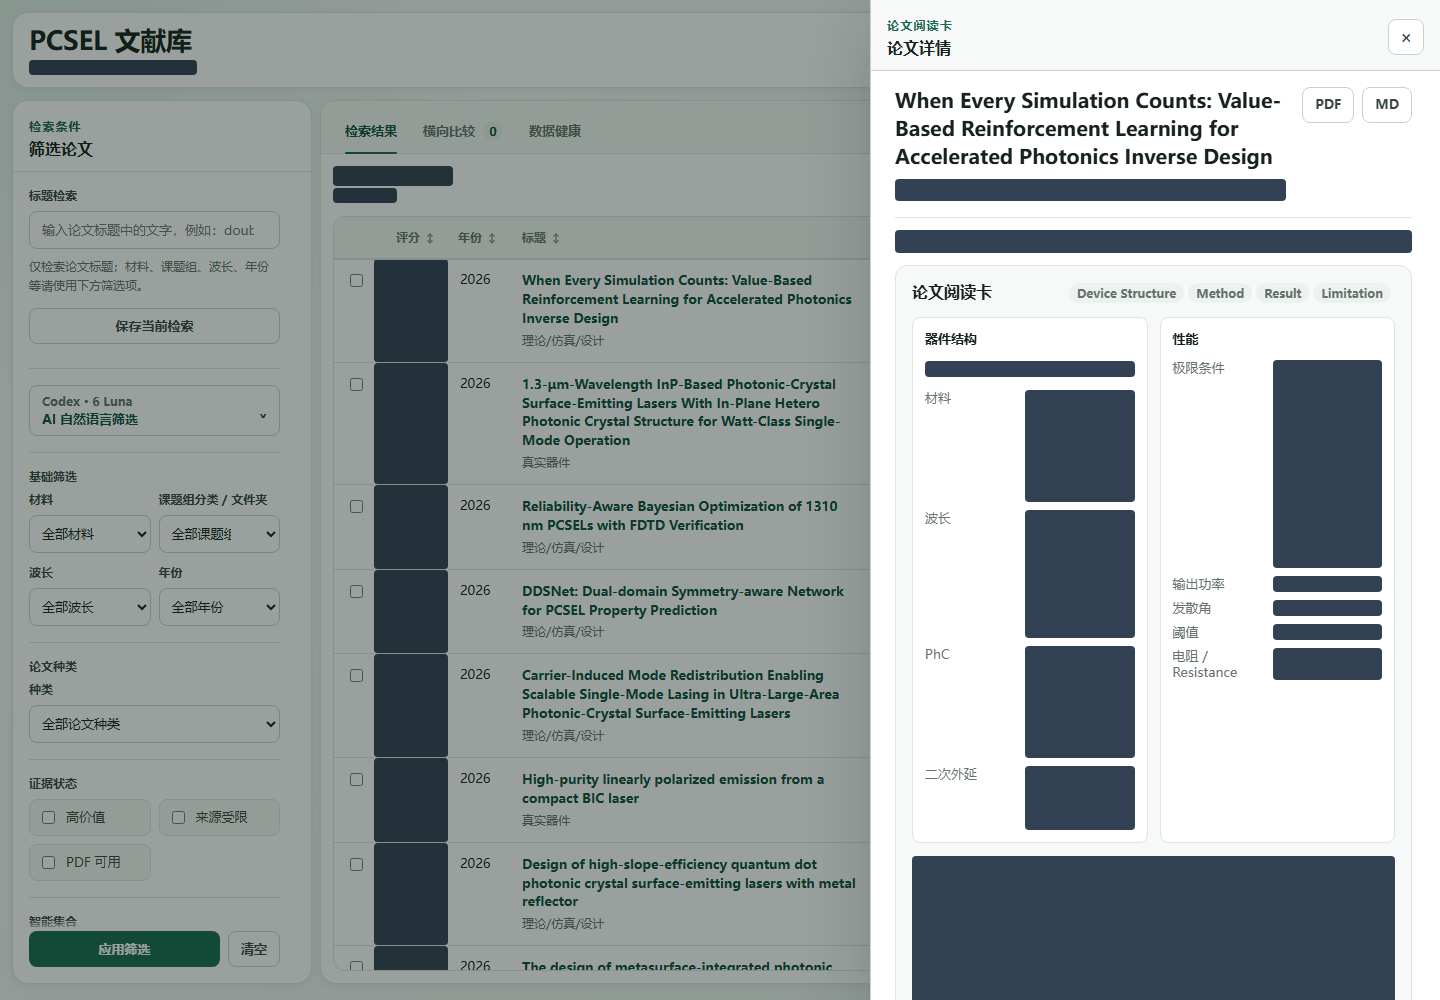
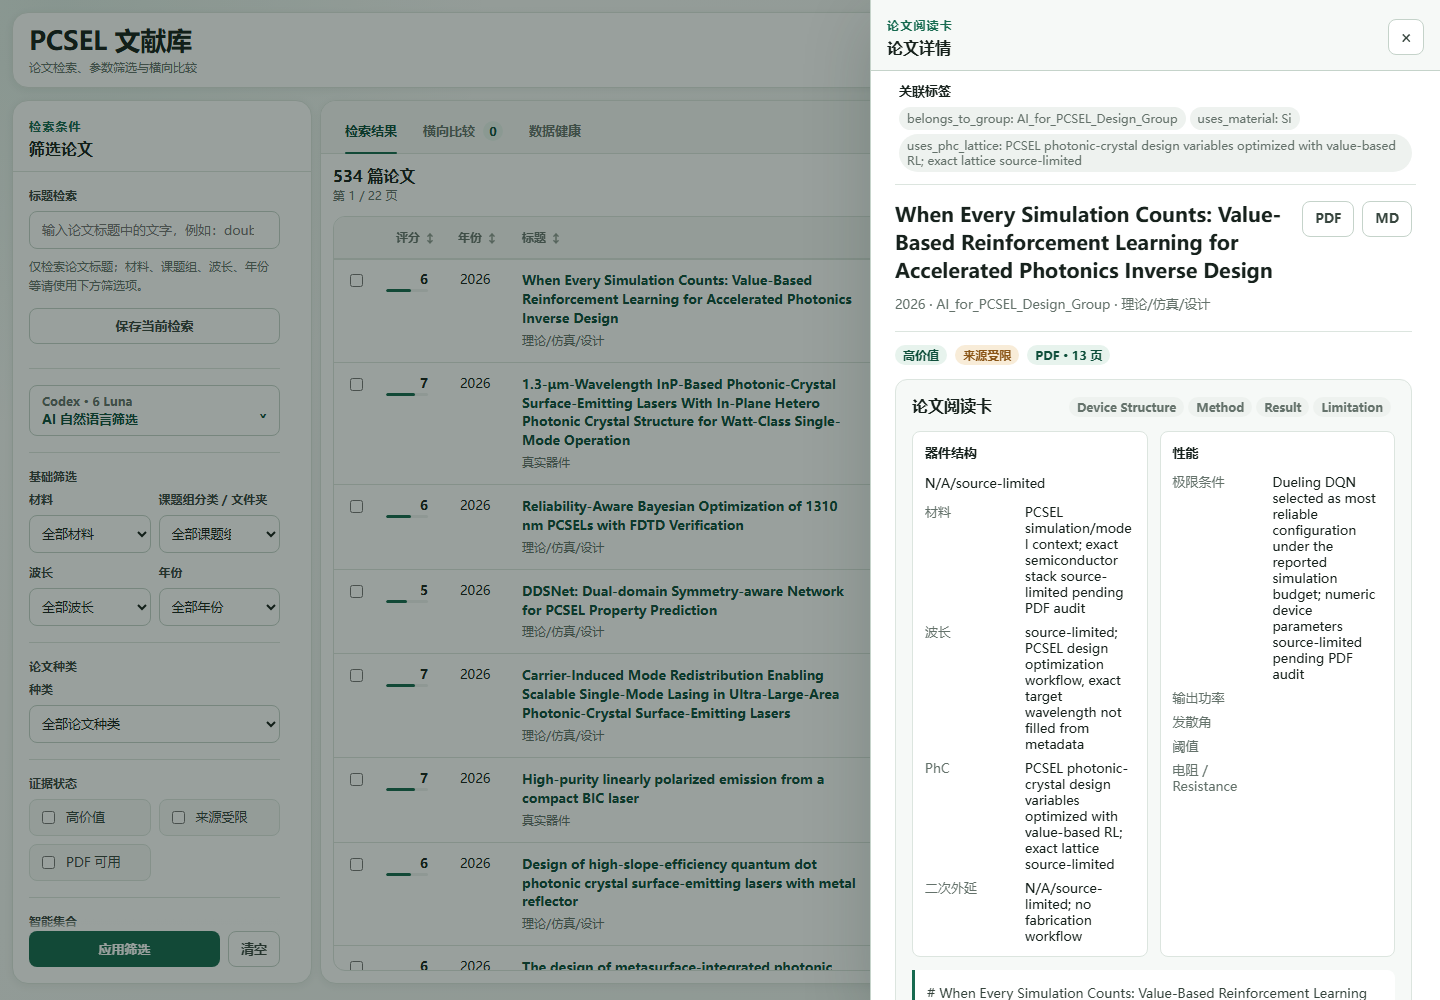
Show public literature metadata in project screenshots

diff --git a/docs/screenshot-showcase.md b/docs/screenshot-showcase.md
@@ -8,7 +8,7 @@ The homepage shows one preview per illustrated project. The Software page uses t
 | --- | --- | --- |
 | Experimental data system | Homepage; multi-batch analysis | Opaque masks cover record identifiers, laboratory statistics, measurement images/results, source locations, and status details. |
 | PCSEL Research Studio | Homepage; batch comparison | Opaque masks cover private conversations, source records, batch identifiers, research values, progress, and internal connection details. |
-| PCSEL Paper Library | Search; paper-detail reading card | Public paper titles are retained. Private library locations, identifiers, counts, annotations, and extracted research values are covered. No full-text PDF page is reproduced. |
+| PCSEL Paper Library | Search; paper-detail reading card | At the user's request, literature metadata, parameters, reading cards, filters, and library statistics remain visible. Only local file paths and private AI history are hidden. No full-text PDF page is reproduced. |
 | PCSEL process records | Standard run-sheet page; process overview | Opaque masks cover identity, sample and recipe-specific details, process parameters, actual progress, metrics, and connection information. |
 | PCSELBook knowledge site | Homepage; teaching chapter | Publicly available teaching content only. |
 | Optical Lab | Homepage; interactive workbench | Public interface and a teaching example only. |
